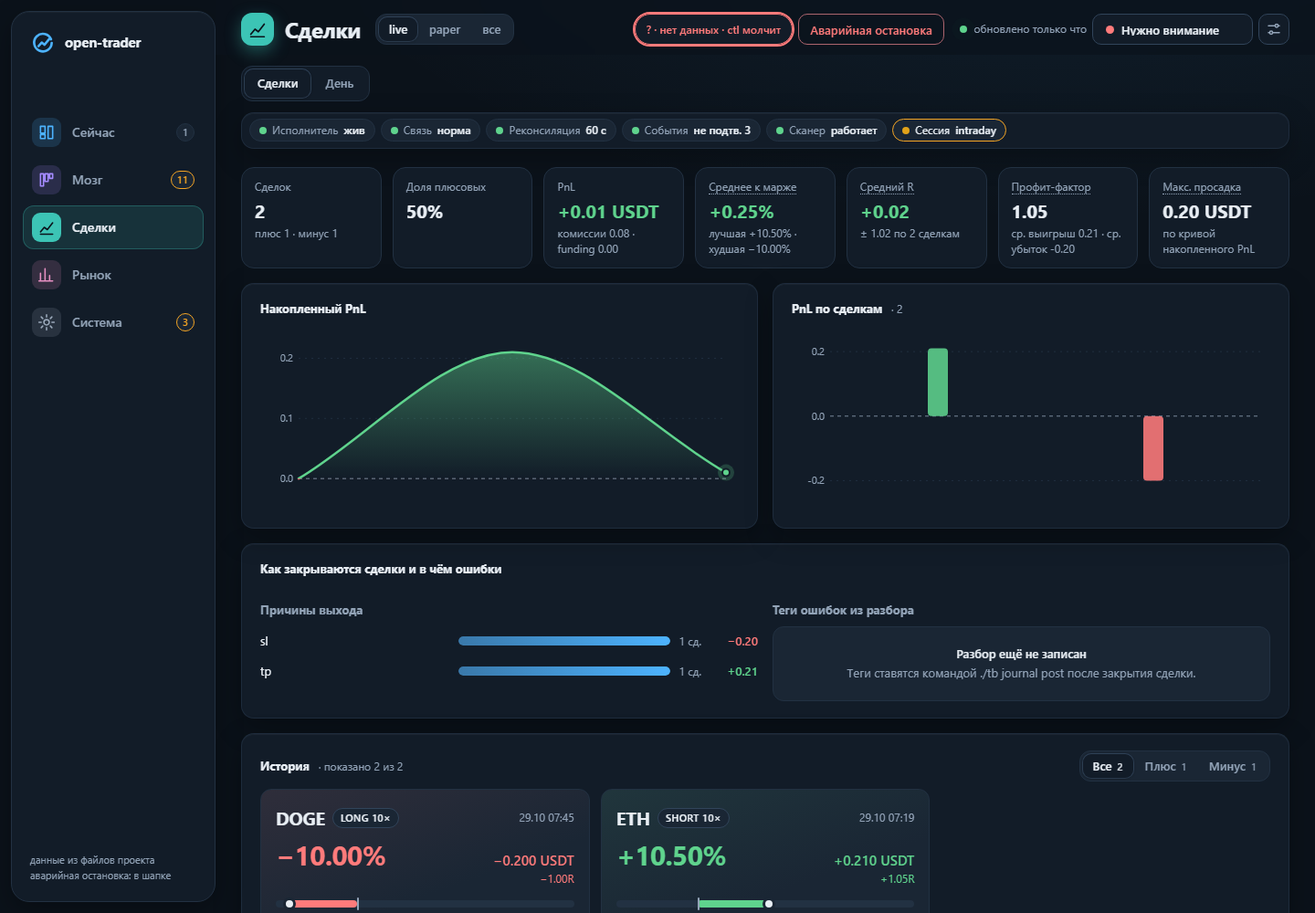
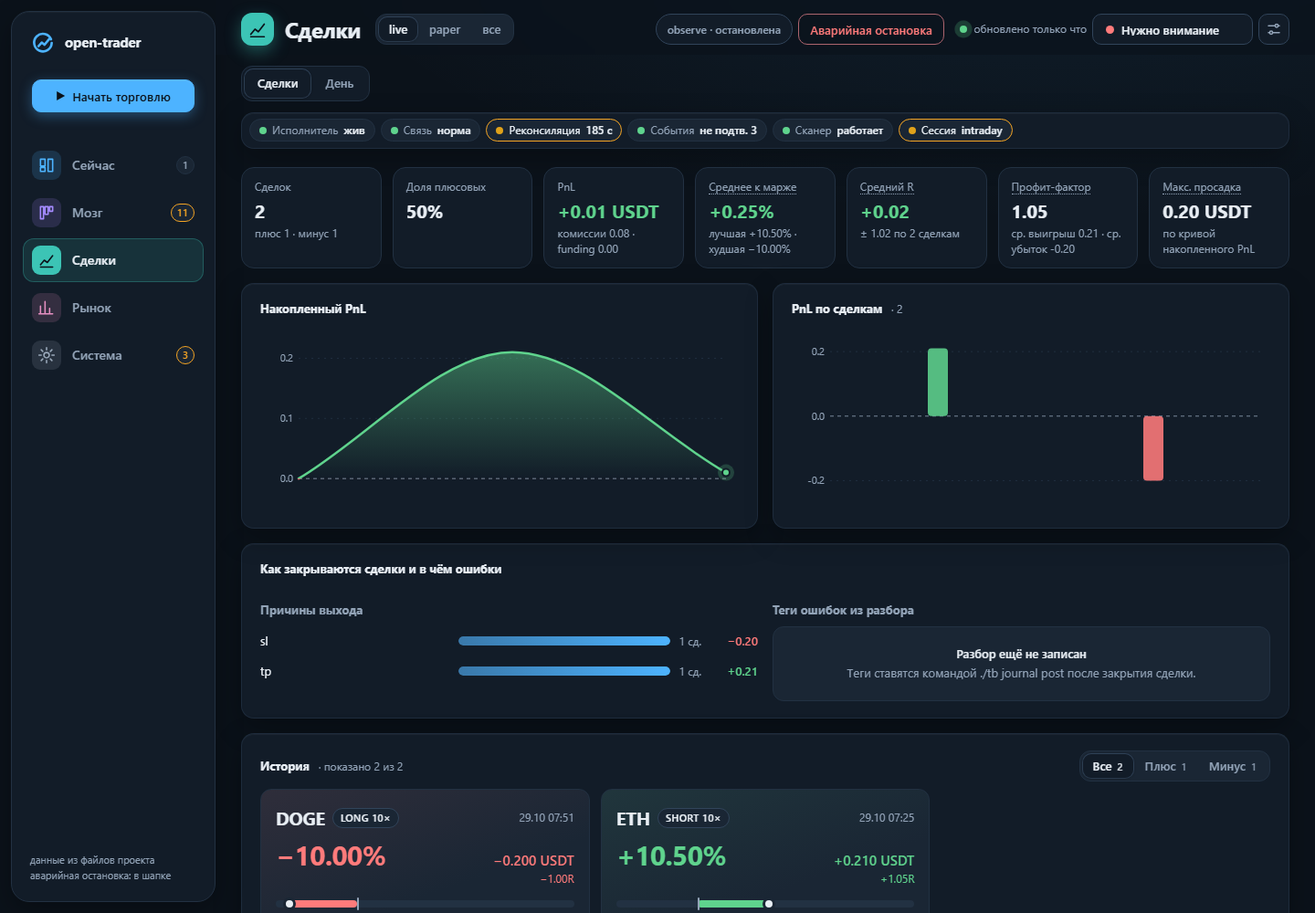
README: copy-friendly commands, start button location, new screenshots
- Commands are split into one block per task, without inline comments,
  with PowerShell variants for Windows and a repo clone URL.
- Document where the Start trading button is (left sidebar, under the
  logo; shrinks to an icon on narrow windows; needs the control service).
- Re-shoot screenshots with the control service running so the button is
  visible in the sidebar.

diff --git a/README.ru.md b/README.ru.md
@@ -78,35 +78,104 @@
 
 ## Быстрый старт (paper)
 
-**Paper** это торговля на бумаге: заявки исполняет локальный бумажный исполнитель по реальным рыночным ценам; ключ биржи не используется, деньги не двигаются. Всё запускайте в терминале из корня репозитория.
+**Paper** это торговля на бумаге: заявки исполняет локальный бумажный исполнитель по реальным рыночным ценам; ключ биржи не используется, деньги не двигаются. Всё запускайте в терминале из корня репозитория. В Windows вместо `./tb` пишите `.\tb.cmd` (PowerShell или cmd); варианты для Windows показаны под каждым шагом.
 
+**1. Получите код**
+
+```bash
+git clone https://github.com/ciel69/open-trader.git
+cd open-trader
 ```
-git clone <этот репозиторий> && cd <папка репозитория>   # или распакуйте архив; затем: chmod +x tb   (в zip может пропасть бит исполнения)
-./tb help                  # проверка: печатает список команд (нужен python3 >= 3.9)
-./tb setup --check         # необязательно: таблица готовности (чего не хватает); ./tb setup спросит ключи скрытым вводом
-./tb start                 # вся платформа в фоне, профиль paper
-./tb status                # сервисы, heartbeat, строка про мозг
+
+Из zip-архива бит исполнения может пропасть: выполните `chmod +x tb` (macOS/Linux).
+
+**2. Проверьте, что запускается** (нужен Python 3.9+)
+
+```bash
+./tb help
+./tb setup --check
 ```
-`./tb start` сам создаёт ключ подписи и токен дашборда при первом запуске (токен печатается один раз, сохраните) и печатает ссылку на дашборд и следующие шаги. Дальше:
+
+```powershell
+.\tb.cmd help
+.\tb.cmd setup --check
+```
+
+`setup --check` необязателен: печатает, чего ещё не хватает. `./tb setup` спросит ключи скрытым вводом.
+
+**3. Запустите платформу**
+
+```bash
+./tb start
+./tb status
+```
+
+```powershell
+.\tb.cmd start
+.\tb.cmd status
+```
+
+`./tb start` запускает всё в фоне (профиль paper), при первом запуске сам создаёт ключ подписи и токен дашборда (токен печатается один раз, сохраните) и печатает ссылку на дашборд и следующие шаги.
+
+**4. Откройте дашборд и начните торговый день**
 
 1. Откройте **http://127.0.0.1:8765/** (только локально; для paper вход без токена, токен спросят один раз для опасных действий и смены настроек).
-2. Нажмите **«Начать торговлю»** в шапке (или **Система -> Управление -> Запустить день**), выберите режим (`paper`) и подтвердите. У торгового дня нет срока: он идёт, пока вы его не остановите. Старт идёт шагами S1-S9 (вкладка **День**).
-3. Мозг **выключен**, пока вы не подключите LLM-провайдера (следующий раздел). До этого `./tb start` печатает одну строку `мозг выключен: <причина> (как включить: ...)`, всё остальное работает: дашборд, сканер, планы, бумажный исполнитель, журнал.
+2. Нажмите синюю кнопку **«Начать торговлю»** вверху левой боковой панели, прямо под логотипом (см. скриншот ниже). Выберите режим `paper` и подтвердите. У торгового дня нет срока: он идёт, пока вы его не остановите (та же кнопка тогда называется **«Закончить день»**). Старт идёт шагами S1-S9 (вкладка **День**). То же действие есть в **Система -> Управление -> Запустить день**.
+3. Кнопки нет? Она появляется только пока отвечает сервис управления, а в узком окне (меньше 1100 px) сжимается до значка «play». Проверьте, что платформа запущена (`./tb status`, `./tb logs ctl`).
+4. Мозг **выключен**, пока вы не подключите LLM-провайдера (следующий раздел). До этого `./tb start` печатает одну строку `мозг выключен: <причина> (как включить: ...)`, всё остальное работает: дашборд, сканер, планы, бумажный исполнитель, журнал.
 
-Остановка: `./tb stop` (перезапуск: `./tb restart`). Аварийно: `./tb exec halt --flatten`. Если вы нажали Ctrl+Z в терминале, где запущен супервизор, `./tb start|stop|restart` сами его разморозят. Другой порт: `{"svc": {"dash": {"port": 8780}}}` в `config/local/platform.json`. Полное руководство: `docs/QUICKSTART.md`; эксплуатация: `docs/RUNBOOK.md`. Самопроверка во временном корне на фейковом LLM (берёт публичные данные Bybit, ваши файлы не трогает): `./tb smoke`.
+**Остановка, перезапуск, аварийно**
+
+```bash
+./tb stop
+./tb restart
+```
+
+```bash
+./tb exec halt --flatten
+```
+
+Если вы нажали Ctrl+Z в терминале, где запущен супервизор, `./tb start|stop|restart` сами его разморозят.
+
+**Другой порт дашборда**: впишите в `config/local/platform.json`, затем `./tb restart`:
+
+```json
+{"svc": {"dash": {"port": 8780}}}
+```
+
+**Самопроверка** во временном корне на фейковом LLM (берёт публичные данные Bybit, ваши файлы не трогает):
+
+```bash
+./tb smoke
+```
+
+Полное руководство: `docs/QUICKSTART.md`; эксплуатация: `docs/RUNBOOK.md`.
 
 ## Подключение LLM-провайдера
 
 Подробности, таблица шаблонов и типичные ошибки: **[docs/PROVIDERS.ru.md](docs/PROVIDERS.ru.md)** ([EN](docs/PROVIDERS.md)). Кратчайший путь для провайдера, который уже в реестре (DeepSeek; Anthropic так же: `anthropic` и профиль `an-sonnet`):
 
+```bash
+./tb llm presets
+./tb llm key set deepseek
+./tb brain enable
+./tb llm check --provider deepseek
+./tb restart
 ```
-./tb llm presets                                 # шаблоны: anthropic deepseek openai gemini groq mistral openrouter local lmstudio
-./tb llm key set deepseek                        # скрытый ввод; файл ~/.config/traider-bot/deepseek.env (вне репозитория)
-./tb brain enable                                # включить подписчика мозга (пишет config/local/, печатает чего ещё не хватает)
-./tb llm check --provider deepseek               # проверка конфига без сети; с --live один крошечный платный запрос
-./tb restart                                     # или ./tb start; ./tb brain status покажет назначения
+
+Что делает каждая строка: `presets` показывает шаблоны (anthropic, deepseek, openai, gemini, groq, mistral, openrouter, local, lmstudio); `key set` спрашивает ключ скрытым вводом и кладёт его в `~/.config/traider-bot/deepseek.env` (вне репозитория); `brain enable` включает подписчика мозга (пишет `config/local/`, печатает, чего ещё не хватает); `check` проверяет конфиг без сети (с `--live` один крошечный платный запрос); `restart` применяет изменения (`./tb brain status` покажет назначения).
+
+Другой вендор (например Gemini):
+
+```bash
+./tb llm provider add gemini --preset gemini
+./tb llm key set gemini
+./tb llm provider enable gemini
+./tb brain profile set gem-flash --provider gemini --model flash
+./tb brain use all gem-flash
 ```
-Другой вендор (например Gemini): `./tb llm provider add gemini --preset gemini`, `./tb llm key set gemini`, `./tb llm provider enable gemini`, `./tb brain profile set gem-flash --provider gemini --model flash`, `./tb brain use all gem-flash`. Любой OpenAI-совместимый адрес и локальные модели (Ollama, LM Studio): `docs/PROVIDERS.ru.md`. **Все шаблоны не проверены живым ключом; нативные адаптеры только у Anthropic и DeepSeek.** Держитесь paper и малых бюджетов (`config/brain.json` -> `budget`). Те же экраны есть в дашборде (**Система -> Настройки**).
+
+Любой OpenAI-совместимый адрес и локальные модели (Ollama, LM Studio): `docs/PROVIDERS.ru.md`. **Все шаблоны не проверены живым ключом; нативные адаптеры только у Anthropic и DeepSeek.** Держитесь paper и малых бюджетов (`config/brain.json` -> `budget`). Те же экраны есть в дашборде (**Система -> Настройки**).
 
 ## Что вы увидите
 
@@ -114,7 +183,7 @@ git clone <этот репозиторий> && cd <папка репозитор
 
 | | |
 |---|---|
-| ![Обзор](docs/images/overview.png) | **Сейчас**: капитал, риск, открытая позиция со стопом и тейком, планы в работе, запас до лимитов, события |
+| ![Обзор](docs/images/overview.png) | **Сейчас**: капитал, риск, открытая позиция со стопом и тейком, планы в работе, запас до лимитов, события. Синяя кнопка **«Начать торговлю»** вверху слева в боковой панели |
 | ![Решения мозга](docs/images/brain-decisions.png) | **Мозг -> Решения**: карточка состояния мозга и лента всех решений (кто, что, почему, результат) |
 | ![Планы](docs/images/plans.png) | **Мозг -> Планы**: доска планов (ждёт входа / наблюдаю / в сделке / закрыт), условия входа, ближайший триггер |
 | ![Сделки](docs/images/trades.png) | **Сделки**: статистика, накопленный PnL, причины выхода, история |
@@ -151,9 +220,14 @@ state/ runtime/ data/   создаются при работе; личные, н
 
 ## Тесты
 
+```bash
+./tb test
 ```
-./tb test          # весь набор (unittest, без сети и реальных ключей)
-python3 -m unittest discover -s tests -p 'test_layering.py'     # один файл
+
+Весь набор: unittest, без сети и реальных ключей. Один файл:
+
+```bash
+python3 -m unittest discover -s tests -p 'test_layering.py'
 ```
 
 ## Вклад

diff --git a/README.md b/README.md
@@ -79,35 +79,104 @@ Details: `docs/ARCHITECTURE.md`, `docs/DESIGN_V2.md`, `docs/SPEC_V2.md`.
 
 ## Quick start (paper)
 
-**Paper** means simulated trading: orders are filled by a local paper executor at real market prices; no exchange key is used and no money moves. Run everything in a terminal from the repository root.
+**Paper** means simulated trading: orders are filled by a local paper executor at real market prices; no exchange key is used and no money moves. Run everything in a terminal from the repository root. On Windows use `.\tb.cmd` instead of `./tb` (PowerShell or cmd); Windows variants are shown below each step.
 
+**1. Get the code**
+
+```bash
+git clone https://github.com/ciel69/open-trader.git
+cd open-trader
 ```
-git clone <this repository> && cd <repository folder>   # or unzip it; then: chmod +x tb   (a zip may drop the executable bit)
-./tb help                  # sanity check: prints the command list (needs python3 >= 3.9)
-./tb setup --check         # optional: readiness table (what is missing); ./tb setup asks for keys with hidden input
-./tb start                 # the whole platform in the background, profile paper
-./tb status                # services, heartbeat, brain line
+
+From a zip archive the executable bit may be lost: run `chmod +x tb` (macOS/Linux).
+
+**2. Check that it runs** (needs Python 3.9+)
+
+```bash
+./tb help
+./tb setup --check
 ```
-`./tb start` creates the signing key and the dashboard token itself on first run (the token is printed once; keep it) and prints the dashboard link and next steps. Then:
+
+```powershell
+.\tb.cmd help
+.\tb.cmd setup --check
+```
+
+`setup --check` is optional: it prints what is still missing. `./tb setup` asks for keys with hidden input.
+
+**3. Start the platform**
+
+```bash
+./tb start
+./tb status
+```
+
+```powershell
+.\tb.cmd start
+.\tb.cmd status
+```
+
+`./tb start` runs everything in the background (profile paper), creates the signing key and the dashboard token on first run (the token is printed once; keep it) and prints the dashboard link and next steps.
+
+**4. Open the dashboard and start a trading day**
 
 1. Open **http://127.0.0.1:8765/** (local only; paper needs no login, the token is asked once, only for dangerous actions and for changing settings).
-2. Click **Start trading** in the header (or **System -> Control -> Start day**), pick the mode (`paper`) and confirm. A trading day has no time limit: it runs until you stop it. The start goes through steps S1-S9 (tab **Day**).
-3. The brain is **off** until you connect an LLM provider (next section). Until then `./tb start` prints one line `мозг выключен: <reason> (как включить: ...)` and everything else works: dashboard, scanner, plans, paper executor, journal.
+2. Click the blue **Start trading** button at the top of the left sidebar, right under the logo (see the screenshot below). Pick the mode `paper` and confirm. A trading day has no time limit: it runs until you stop it (the same button then reads **Finish day**). The start goes through steps S1-S9 (tab **Day**). The same action is also under **System -> Control -> Start day**.
+3. No button? It appears only while the control service answers, and on a narrow window (under 1100 px) it shrinks to a play icon. Check that the platform is running (`./tb status`, `./tb logs ctl`).
+4. The brain is **off** until you connect an LLM provider (next section). Until then `./tb start` prints one line `мозг выключен: <reason> (как включить: ...)` and everything else works: dashboard, scanner, plans, paper executor, journal.
 
-Stop: `./tb stop` (restart: `./tb restart`). Emergency: `./tb exec halt --flatten`. If you pressed Ctrl+Z in the terminal that started the supervisor, `./tb start|stop|restart` resume it by themselves. Another port: put `{"svc": {"dash": {"port": 8780}}}` into `config/local/platform.json`. Full guide: `docs/QUICKSTART.md` (Russian); operations: `docs/RUNBOOK.md`. Self-check on a temporary root with a fake LLM (uses public Bybit data, touches nothing of yours): `./tb smoke`.
+**Stop, restart, emergency**
+
+```bash
+./tb stop
+./tb restart
+```
+
+```bash
+./tb exec halt --flatten
+```
+
+If you pressed Ctrl+Z in the terminal that started the supervisor, `./tb start|stop|restart` resume it by themselves.
+
+**Another dashboard port**: put this into `config/local/platform.json`, then `./tb restart`:
+
+```json
+{"svc": {"dash": {"port": 8780}}}
+```
+
+**Self-check** on a temporary root with a fake LLM (uses public Bybit data, touches nothing of yours):
+
+```bash
+./tb smoke
+```
+
+Full guide: `docs/QUICKSTART.md` (Russian); operations: `docs/RUNBOOK.md`.
 
 ## Connect an LLM provider
 
 Details, table of templates and troubleshooting: **[docs/PROVIDERS.md](docs/PROVIDERS.md)** ([RU](docs/PROVIDERS.ru.md)). Shortest path for a provider that is already in the registry (DeepSeek; Anthropic works the same way with `anthropic` and profile `an-sonnet`):
 
+```bash
+./tb llm presets
+./tb llm key set deepseek
+./tb brain enable
+./tb llm check --provider deepseek
+./tb restart
 ```
-./tb llm presets                                 # templates: anthropic deepseek openai gemini groq mistral openrouter local lmstudio
-./tb llm key set deepseek                        # hidden prompt; stored in ~/.config/traider-bot/deepseek.env (outside the repo)
-./tb brain enable                                # turns the brain subscriber on (writes config/local/, prints what is still missing)
-./tb llm check --provider deepseek               # offline config check; add --live for one tiny paid request
-./tb restart                                     # or ./tb start; ./tb brain status shows the assignments
+
+What each line does: `presets` lists templates (anthropic, deepseek, openai, gemini, groq, mistral, openrouter, local, lmstudio); `key set` asks for the key with hidden input and stores it in `~/.config/traider-bot/deepseek.env` (outside the repo); `brain enable` turns the brain subscriber on (writes `config/local/`, prints what is still missing); `check` is an offline config check (add `--live` for one tiny paid request); `restart` applies it (`./tb brain status` shows the assignments).
+
+Another vendor (here Gemini):
+
+```bash
+./tb llm provider add gemini --preset gemini
+./tb llm key set gemini
+./tb llm provider enable gemini
+./tb brain profile set gem-flash --provider gemini --model flash
+./tb brain use all gem-flash
 ```
-Another vendor (here Gemini): `./tb llm provider add gemini --preset gemini`, `./tb llm key set gemini`, `./tb llm provider enable gemini`, `./tb brain profile set gem-flash --provider gemini --model flash`, `./tb brain use all gem-flash`. Any OpenAI-compatible URL and local models (Ollama, LM Studio) are covered in `docs/PROVIDERS.md`. **All templates are unverified with a live key; only Anthropic and DeepSeek have native adapters.** Keep to paper and small budgets (`config/brain.json` -> `budget`). The same screens exist in the dashboard (**System -> Settings**).
+
+Any OpenAI-compatible URL and local models (Ollama, LM Studio) are covered in `docs/PROVIDERS.md`. **All templates are unverified with a live key; only Anthropic and DeepSeek have native adapters.** Keep to paper and small budgets (`config/brain.json` -> `budget`). The same screens exist in the dashboard (**System -> Settings**).
 
 ## What you will see
 
@@ -115,7 +184,7 @@ All screenshots below are synthetic fixture data (`tests/fixtures_v2/gen.py`), n
 
 | | |
 |---|---|
-| ![Overview](docs/images/overview.png) | **Now**: capital, risk, open position with stop/take, plans in work, limits headroom, events |
+| ![Overview](docs/images/overview.png) | **Now**: capital, risk, open position with stop/take, plans in work, limits headroom, events. The blue **Start trading** button is top-left in the sidebar |
 | ![Brain decisions](docs/images/brain-decisions.png) | **Brain -> Decisions**: brain status card and the log of every decision (who, what, why, result) |
 | ![Plans](docs/images/plans.png) | **Brain -> Plans**: board of plans (waiting / watching / in trade / closed), entry conditions, nearest trigger |
 | ![Trades](docs/images/trades.png) | **Trades**: statistics, cumulative PnL, exit reasons, history |
@@ -152,9 +221,14 @@ Start with `docs/INDEX.md`. Key pages: `PROVIDERS` (connect an LLM), `QUICKSTART
 
 ## Tests
 
+```bash
+./tb test
 ```
-./tb test          # whole suite (unittest, no network, no real keys)
-python3 -m unittest discover -s tests -p 'test_layering.py'     # a single file
+
+The whole suite: unittest, no network, no real keys. A single file:
+
+```bash
+python3 -m unittest discover -s tests -p 'test_layering.py'
 ```
 
 ## Contributing
